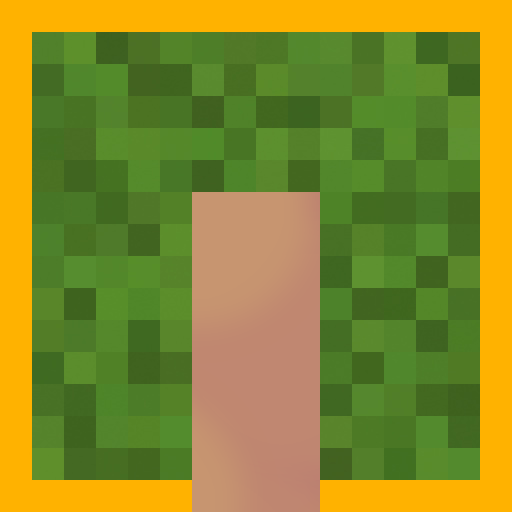
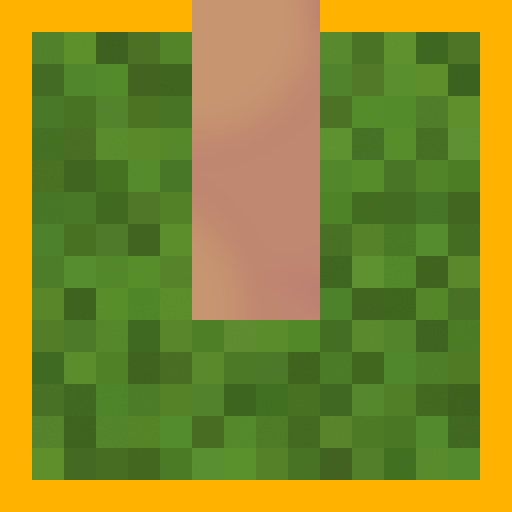
Update Visual in Edition Mode

Changed region(s): [[0.375, 0.625, 0.625, 1.0], [0.375, 0.0, 0.625, 0.375]]

diff --git a/frontend/css/cube.css b/frontend/css/cube.css
@@ -11,34 +11,41 @@
 
 /* Positionnement des faces */
 .top {
-  grid-column: 2;
-  grid-row: 1;
+  grid-column: 4;
+  grid-row: 2;
+  transform: rotate(180deg);
 }
 
 .left {
-  grid-column: 1;
+  grid-column: 2;
   grid-row: 2;
+  transform: rotate(180deg);
 }
 
 .front {
-  grid-column: 2;
+  grid-column: 1;
   grid-row: 2;
+  transform: rotate(180deg);
 }
 
 .right {
   grid-column: 3;
   grid-row: 2;
+  transform: rotate(180deg);
 }
 
 .back {
-  grid-column: 4;
-  grid-row: 2;
+  grid-column: 2;
+  grid-row: 1;
+  transform: rotate(90deg);
 }
 
 .bottom {
   grid-column: 2;
   grid-row: 3;
+  transform: rotate(90deg);
 }
+
 /*=================*/
 
 /* Style des faces */
